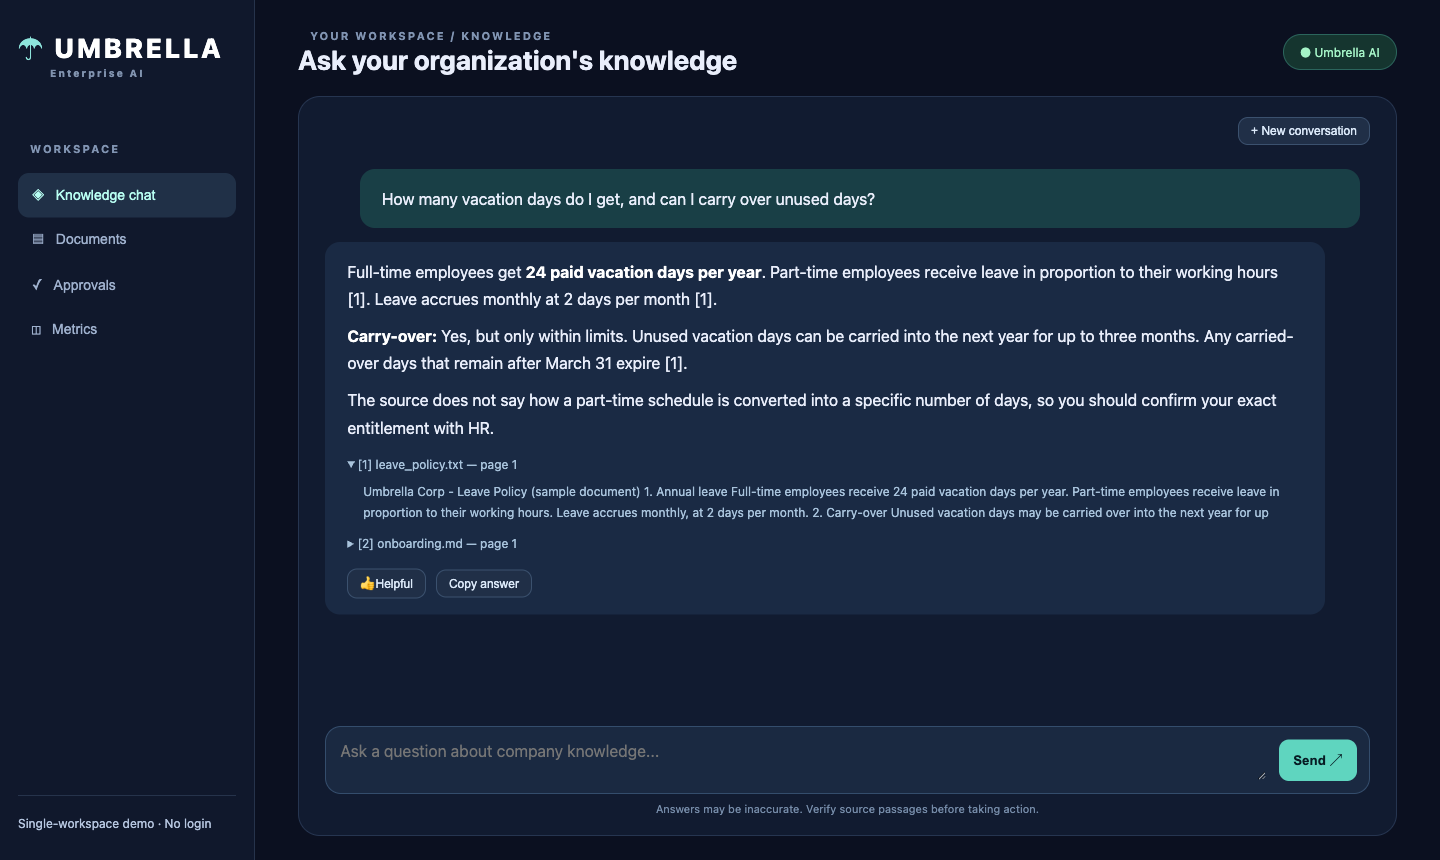
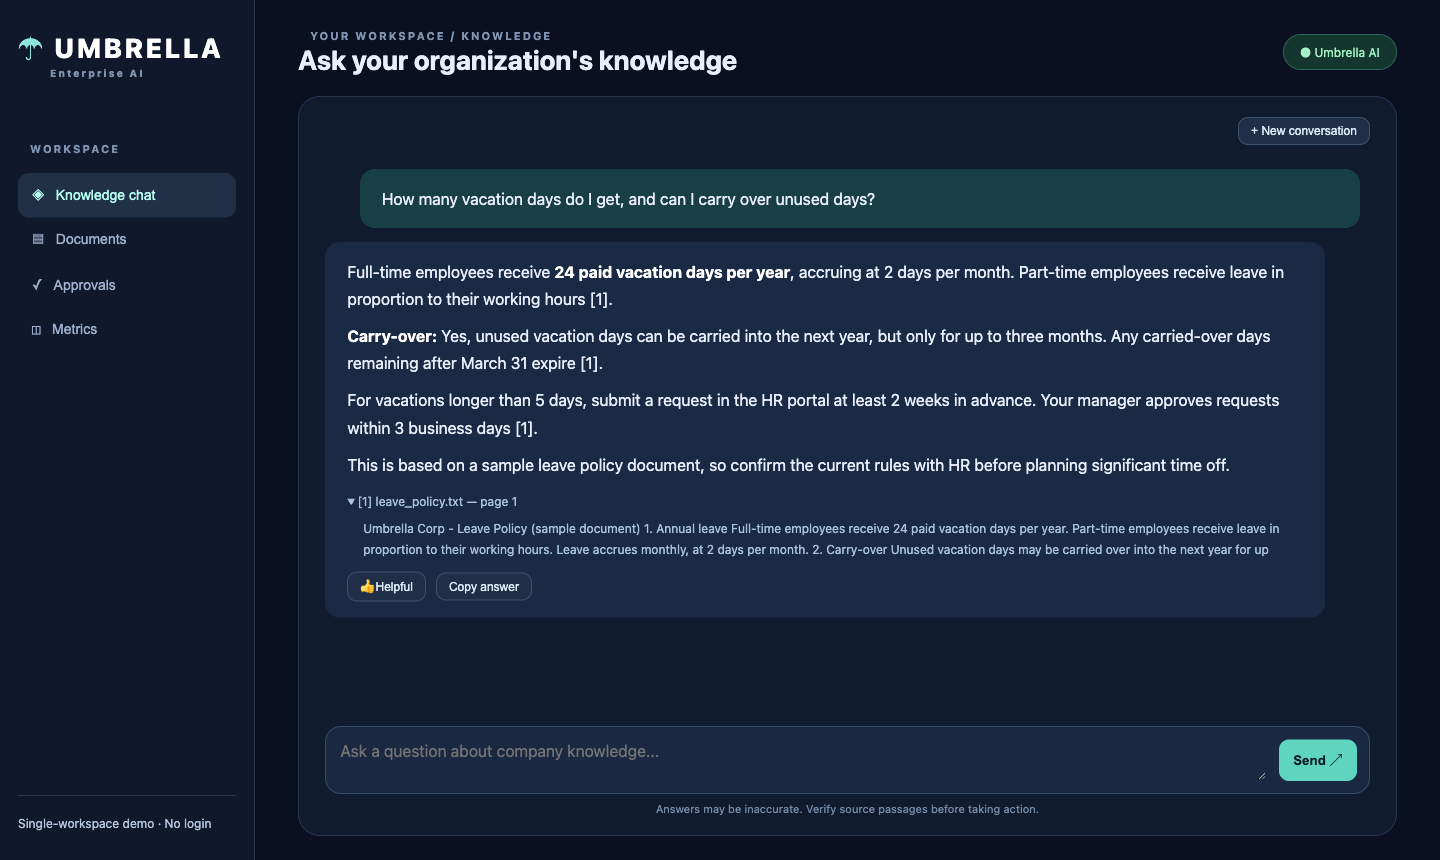
Show only cited sources, honest sidebar text, newer GitHub actions, more sample docs
- graph.validate keeps only the sources the answer cites (falls back to all if none match)
- sidebar says Password protected / No login depending on APP_PASSWORD
- CI: actions/checkout v7, setup-python v7, setup-uv v7 (Node 24)
- sample_docs: holiday (txt), expense (md), remote work (docx), travel (pdf) + README with questions
- tests for the citation filter and the sidebar text; refreshed README screenshot and docs

Changed region(s): [[0.25, 0.3023, 0.9062, 0.6953]]

diff --git a/app/templates/index.html b/app/templates/index.html
@@ -17,7 +17,7 @@
     <button class="nav" id="docsTab">▤ &nbsp; Documents</button>
     <button class="nav" id="approvalTab">✓ &nbsp; Approvals</button>
     <button class="nav" id="adminTab">◫ &nbsp; Metrics</button>
-    <div class="sidebottom">Single-workspace demo · No login</div>
+    <div class="sidebottom">Single-workspace demo · {{ "Password protected" if protected else "No login" }}</div>
   </aside>
 
   <main>

diff --git a/test/test_graph.py b/test/test_graph.py
@@ -18,7 +18,7 @@ sys.path.insert(0, str(Path(__file__).resolve().parent.parent))
 from fastapi import HTTPException  # noqa: E402
 
 from app.aws import embed  # noqa: E402
-from app.graph import chat, graph, route  # noqa: E402
+from app.graph import chat, graph, only_cited, route  # noqa: E402
 from app.guardrails import check_input, check_output  # noqa: E402
 from app.vector import delete_document, search, upsert  # noqa: E402
 
@@ -57,6 +57,16 @@ def part1_offline() -> None:
     check("password assignment in an answer is blocked", "blocked" in check_output("password: hunter2hunter2hunter2"))
     check("route: passages -> generate", route({'passages': [1]}) == 'generate')
     check("route: no passages -> no_evidence", route({'passages': []}) == 'no_evidence')
+    srcs = [{'index': i, 'title': f'doc{i}'} for i in (1, 2, 3)]
+    pick = lambda text: [s['index'] for s in only_cited(text, srcs)]  # noqa: E731
+    check("only_cited: one citation keeps one source", pick("24 days [1].") == [1])
+    check("only_cited: several citations keep those, numbers unchanged", pick("A [1] and C [3].") == [1, 3])
+    check("only_cited: [1, 3] form is understood", pick("Both apply [1, 3].") == [1, 3])
+    check("only_cited: repeated citations count once", pick("[2] then again [2] and [2].") == [2])
+    check("only_cited: no citation keeps every source", pick("I could not find it.") == [1, 2, 3])
+    check("only_cited: citing an unknown number keeps every source", pick("See [9].") == [1, 2, 3])
+    check("only_cited: other brackets are ignored", pick("Use the [HR] portal [2] (see [note]).") == [2])
+    check("only_cited: empty source list is fine", only_cited("x [1]", []) == [])
     names = set(graph.get_graph().nodes)
     check("graph has all 5 steps", {'guard', 'retrieve', 'no_evidence', 'generate', 'validate'} <= names)
 

diff --git a/app/graph.py b/app/graph.py
@@ -6,11 +6,12 @@
     guard        reject empty or attack-like questions (guardrails.check_input)
     retrieve     embed the question, search Pinecone as this user, keep hits above min_relevance
     generate     ask the chat model to answer from that evidence only
-    validate     block answers that leak secrets (guardrails.check_output)
+    validate     block answers that leak secrets (guardrails.check_output); keep only the cited sources
     no_evidence  fixed reply when nothing authorized and relevant was found; the model is not called
 
 `chat(principal, question, history)` is the one function the web app calls.
 """
+import re
 from typing import Any, TypedDict
 
 from langgraph.graph import END, START, StateGraph
@@ -77,9 +78,21 @@ def generate(s):
     return {'answer': answer(s['question'], evidence, s.get('history', [])), 'status': 'answered'}
 
 
+def only_cited(answer, sources):
+    """Keep only the sources the answer cites, e.g. [1] or [1, 3]. Numbers are left as they were.
+
+    If the answer cites nothing we can match, keep every source, so evidence is never hidden
+    just because the model formatted its citations differently.
+    """
+    cited = {int(n) for group in re.findall(r'\[(\d+(?:\s*,\s*\d+)*)\]', answer)
+             for n in re.split(r'\s*,\s*', group)}
+    return [src for src in sources if src['index'] in cited] or sources
+
+
 @trace("validate")
 def validate(s):
-    return {'answer': check_output(s['answer'])}
+    checked = check_output(s['answer'])
+    return {'answer': checked, 'sources': only_cited(checked, s.get('sources', []))}
 
 
 def make_graph():

diff --git a/test/test_auth.py b/test/test_auth.py
@@ -59,6 +59,7 @@ def main() -> int:
     check("page with a wrong password: 401", http.get("/", headers=basic("u", "wrong")).status_code == 401)
     r = http.get("/", headers=basic("u", PASSWORD))
     check("page with the right password: 200", r.status_code == 200 and "Umbrella" in r.text)
+    check("sidebar says the app is password protected", "Password protected" in r.text and "No login" not in r.text)
     check("static JS is protected", http.get("/static/js/app.js").status_code == 401)
     check("static JS with the password: 200",
           http.get("/static/js/app.js", headers=basic("u", PASSWORD)).status_code == 200)
@@ -71,7 +72,9 @@ def main() -> int:
     # ---- the app with no password set ----
     os.environ["APP_PASSWORD"] = ""
     get_settings.cache_clear()
-    check("no password configured: page is open", http.get("/").status_code == 200)
+    r = http.get("/")
+    check("no password configured: page is open", r.status_code == 200)
+    check("sidebar says no login when no password is set", "No login" in r.text and "Password protected" not in r.text)
     check("no password configured: static is open", http.get("/static/css/styles.css").status_code == 200)
 
     print(f"\n{'all passed' if failures == 0 else f'{failures} failed'}")

diff --git a/app/main.py b/app/main.py
@@ -96,7 +96,8 @@ class ApprovalDecision(BaseModel):
 @app.get('/', response_class=HTMLResponse)
 def home(request: Request):
     return templates.TemplateResponse(request, 'index.html',
-                                      {'region': settings().aws_region, 'mode': 'single-workspace demo'})
+                                      {'region': settings().aws_region, 'mode': 'single-workspace demo',
+                                       'protected': bool(settings().app_password)})
 
 
 @app.get('/health/live')

diff --git a/docs/SETUP.md b/docs/SETUP.md
@@ -109,13 +109,15 @@ setup, then ingestion and RAG, then observability, then FastAPI and UI, then int
 
 **`app/demo_context.py`: who is asking.** One fixed `Principal` (subject `demo-operator`, tenant `demo-workspace`, group `workspace`, admin). Every endpoint receives it via `Depends(principal)`. Real login later means changing only `principal()`.
 
+**Citations:** after the answer is written, `graph.validate` keeps only the sources the answer actually cites (`[1]`, `[1, 3]`), so the interface no longer lists passages the model did not use. If it can match no citation, every source is kept.
+
 **`worker/ingest.py`: the librarian's assistant.** `process_s3_key(key)` locks the document row, downloads the file (size and PDF header checks), parses it (PDF by page, DOCX, text), cuts it into 1200-character chunks that overlap by 180, embeds and upserts them in batches of 50, then marks the row `ready` (or `failed`) and writes an audit event. Scanned PDFs are not supported (no OCR).
 
 **`app/main.py`: the web API.** Upload (two steps), document list, chat, saved conversations, feedback, admin metrics, approvals (list and decide) and guardrail counts. Approving a request only records the decision; nothing is executed. Everything is filtered by the user's tenant.
 
 **`app/templates/index.html`, `app/static/`: the interface.** Four tabs: Knowledge chat, Documents, Approvals, Metrics. Answers are rendered from simple markdown (lists, bold) by building DOM elements, never `innerHTML`. Enter sends, a refresh restores the conversation, and the welcome block hides once you start chatting.
 
-**`sample_docs/`:** three fake documents (leave policy, onboarding, IT security) for trying the app.
+**`sample_docs/`:** seven fake documents for trying the app, in four file types (text, Markdown, Word, PDF): leave, onboarding, IT security, holidays, expenses, remote work, travel. Its README lists a question and the expected answer for each.
 
 **schema.sql vs init_db.py vs db.py in one line:** the blueprint, the builder that runs it once, and the door the app uses afterwards.
 

diff --git a/sample_docs/README.md b/sample_docs/README.md
@@ -1,0 +1,21 @@
+# Sample documents
+
+Fake company documents for trying the app. Upload them in the **Documents** tab (PDF, DOCX, TXT and
+MD all work), wait for each to show `ready`, then ask the questions below.
+
+| File | Type | Ask | You should get |
+|---|---|---|---|
+| `leave_policy.txt` | text | How many vacation days do I get? | 24 paid days a year |
+| `onboarding.md` | Markdown | What happens on my first day? | Laptop and badge pickup, buddy, security training |
+| `it_security_rules.txt` | text | How long must a password be? | 14 characters |
+| `holiday_policy.txt` | text | How many public holidays do we get? | 10, plus 1 floating holiday |
+| `expense_policy.md` | Markdown | When does an expense need manager approval? | Any single expense over $250 |
+| `remote_work_policy.docx` | Word | How many days can I work from home? | Up to 3 days a week, Tuesday is the office day |
+| `travel_policy.pdf` | PDF | What is the hotel limit? | $180 per night |
+
+Questions that span two files work too, for example: "What is the leave policy and the holiday
+policy?" should cite both documents.
+
+The facts are invented, so a correct answer proves the file was uploaded to S3, read, embedded,
+stored in Pinecone and found again. A question about something in none of the files, such as
+"What is the CEO's salary?", should say it cannot find supporting evidence.

diff --git a/sample_docs/expense_policy.md b/sample_docs/expense_policy.md
@@ -1,0 +1,16 @@
+# Umbrella Corp - Expense Reimbursement Policy (sample document)
+
+## What can be claimed
+- Meals while travelling: up to $40 per day.
+- Taxis and ride-shares for business trips.
+- Client entertainment, when pre-approved by a director.
+- Alcohol is never reimbursable.
+
+## Approval rules
+1. Any single expense over $250 needs written approval from your manager before you spend it.
+2. Receipts are required for every expense over $25.
+3. Expenses over $1,000 also need finance sign-off.
+
+## Timing
+- Submit your expense report within 30 days of the purchase, or it may be rejected.
+- Approved expenses are reimbursed within 10 business days.

diff --git a/README.md b/README.md
@@ -88,7 +88,8 @@ uv run uvicorn app.main:app --reload
 ```
 
 Open http://localhost:8000, go to **Documents**, upload the files in [`sample_docs/`](sample_docs),
-then ask questions such as "How many vacation days do I get?".
+then ask questions such as "How many vacation days do I get?" (the folder's README lists a question
+and the expected answer for each file).
 
 ### What you need in `.env`
 
